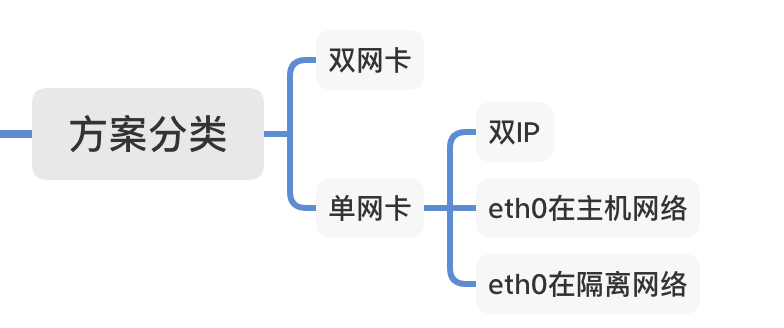
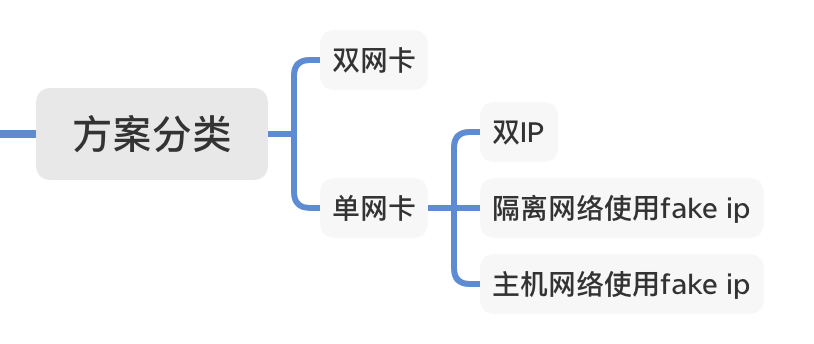
update

Changed region(s): [[0.0918, 0.122, 0.9184, 0.9146], [0.0, 0.3659, 0.0612, 0.4268]]

diff --git a/_posts/2021/2021-03-05-underlay-container-network.md b/_posts/2021/2021-03-05-underlay-container-network.md
@@ -47,7 +47,7 @@ ubuntu@VM-6-46-ubuntu:~$ ip a
        valid_lft forever preferred_lft forever
 ```
 
-我们之后的配置都在cvm-1上操作进行，使用cvm-2测试网络联通性。
+我们之后的配置都在cvm-1上操作进行，使用cvm-2测试网络连通性。
 
 # 方案详解
 
@@ -55,7 +55,291 @@ ubuntu@VM-6-46-ubuntu:~$ ip a
 
 ## 双网卡
 
+方案概览：
 
+![方案概览](https://raw.githubusercontent.com/ligang1109/ligang1109.github.io/master/images/2021-03-05/2eth.png)
+
+设置方法：
+
+```
+#!/bin/bash
+
+myns=blue
+
+ip net add $myns
+ip link set eth1 netns $myns
+ip net exec $myns ip link set eth1 name eth0
+
+ip net exec $myns ip addr add 10.0.6.14/24 dev eth0
+ip net exec $myns ip link set eth0 up
+
+ip net exec $myns ip route add default via 10.0.6.1 dev eth0
+```
+
+设置后机器上的网络情况为：
+
+```
+root@VM-6-43-ubuntu:/home/ubuntu# ip a
+1: lo: <LOOPBACK,UP,LOWER_UP> mtu 65536 qdisc noqueue state UNKNOWN group default qlen 1000
+    link/loopback 00:00:00:00:00:00 brd 00:00:00:00:00:00
+    inet 127.0.0.1/8 scope host lo
+       valid_lft forever preferred_lft forever
+    inet6 ::1/128 scope host
+       valid_lft forever preferred_lft forever
+3: eth0: <BROADCAST,MULTICAST,UP,LOWER_UP> mtu 1500 qdisc fq_codel state UP group default qlen 1000
+    link/ether 52:54:00:9c:e7:91 brd ff:ff:ff:ff:ff:ff
+    inet 10.0.6.43/24 brd 10.0.6.255 scope global eth0
+       valid_lft forever preferred_lft forever
+    inet6 fe80::5054:ff:fe9c:e791/64 scope link
+       valid_lft forever preferred_lft forever
+root@VM-6-43-ubuntu:/home/ubuntu# ip net exec blue ip a
+1: lo: <LOOPBACK> mtu 65536 qdisc noop state DOWN group default qlen 1000
+    link/loopback 00:00:00:00:00:00 brd 00:00:00:00:00:00
+4: eth0: <BROADCAST,MULTICAST,UP,LOWER_UP> mtu 1500 qdisc fq_codel state UP group default qlen 1000
+    link/ether 20:90:6f:a4:6b:7e brd ff:ff:ff:ff:ff:ff
+    inet 10.0.6.14/24 scope global eth0
+       valid_lft forever preferred_lft forever
+    inet6 fe80::2290:6fff:fea4:6b7e/64 scope link
+       valid_lft forever preferred_lft forever
+```
+
+和另一台cvm测试网络连通性：
+
+```
+//隔离环境连通另外一台cvm
+root@VM-6-43-ubuntu:/home/ubuntu# ip net exec blue ping 10.0.6.46 -c 3PING 10.0.6.46 (10.0.6.46) 56(84) bytes of data.
+64 bytes from 10.0.6.46: icmp_seq=1 ttl=64 time=0.145 ms
+64 bytes from 10.0.6.46: icmp_seq=2 ttl=64 time=0.168 ms
+64 bytes from 10.0.6.46: icmp_seq=3 ttl=64 time=0.204 ms
+
+--- 10.0.6.46 ping statistics ---
+3 packets transmitted, 3 received, 0% packet loss, time 2037ms
+rtt min/avg/max/mdev = 0.145/0.172/0.204/0.026 ms
+
+//另一台cvm连通隔离环境
+ubuntu@VM-6-46-ubuntu:~$ ping 10.0.6.14 -c 3
+PING 10.0.6.14 (10.0.6.14) 56(84) bytes of data.
+64 bytes from 10.0.6.14: icmp_seq=1 ttl=64 time=0.172 ms
+64 bytes from 10.0.6.14: icmp_seq=2 ttl=64 time=0.178 ms
+64 bytes from 10.0.6.14: icmp_seq=3 ttl=64 time=0.174 ms
+
+--- 10.0.6.14 ping statistics ---
+3 packets transmitted, 3 received, 0% packet loss, time 2040ms
+rtt min/avg/max/mdev = 0.172/0.174/0.178/0.015 ms
+```
+
+## 单网卡
+
+### 双IP
+
+方案概览：
+
+![方案概览](https://raw.githubusercontent.com/ligang1109/ligang1109.github.io/master/images/2021-03-05/1eth2ip.png)
+
+ 本方案创建一个虚拟网卡，使用ipvlan的L2模式，设置方法如下：
+
+```
+#!/bin/bash
+
+myns=blue
+tmpName=ipv1
+
+ip net add $myns
+ip link add link eth0 name $tmpName type ipvlan mode l2
+ip link set $tmpName netns $myns
+ip net exec $myns ip link set $tmpName name eth0
+ip net exec $myns ip addr add 10.0.6.22/24 dev eth0
+ip net exec $myns ip link set eth0 up
+
+ip net exec $myns ip route add default via 10.0.6.1 dev eth0
+```
+
+设置后隔离环境网络情况为：
+
+```
+root@VM-6-43-ubuntu:/home/ubuntu# ip net exec blue ip a
+1: lo: <LOOPBACK> mtu 65536 qdisc noop state DOWN group default qlen 1000
+    link/loopback 00:00:00:00:00:00 brd 00:00:00:00:00:00
+4: eth0@if3: <BROADCAST,MULTICAST,UP,LOWER_UP> mtu 1500 qdisc noqueue state UNKNOWN group default qlen 1000
+    link/ether 52:54:00:9c:e7:91 brd ff:ff:ff:ff:ff:ff
+    inet 10.0.6.22/24 scope global eth0
+       valid_lft forever preferred_lft forever
+    inet6 fe80::5254:0:19c:e791/64 scope link
+       valid_lft forever preferred_lft forever
+```
+
+和另一台cvm测试网络连通性：
+
+```
+//隔离环境连通另外一台cvm
+root@VM-6-43-ubuntu:/home/ubuntu# ip net exec blue ping 10.0.6.46 -c 3PING 10.0.6.46 (10.0.6.46) 56(84) bytes of data.
+64 bytes from 10.0.6.46: icmp_seq=1 ttl=64 time=0.297 ms
+64 bytes from 10.0.6.46: icmp_seq=2 ttl=64 time=0.204 ms
+64 bytes from 10.0.6.46: icmp_seq=3 ttl=64 time=0.183 ms
+
+--- 10.0.6.46 ping statistics ---
+3 packets transmitted, 3 received, 0% packet loss, time 2033ms
+rtt min/avg/max/mdev = 0.183/0.228/0.297/0.049 ms
+
+//另一台cvm连通隔离环境
+ubuntu@VM-6-46-ubuntu:~$ ping 10.0.6.22 -c 3
+PING 10.0.6.22 (10.0.6.22) 56(84) bytes of data.
+64 bytes from 10.0.6.22: icmp_seq=1 ttl=64 time=0.164 ms
+64 bytes from 10.0.6.22: icmp_seq=2 ttl=64 time=0.169 ms
+64 bytes from 10.0.6.22: icmp_seq=3 ttl=64 time=0.175 ms
+
+--- 10.0.6.22 ping statistics ---
+3 packets transmitted, 3 received, 0% packet loss, time 2039ms
+rtt min/avg/max/mdev = 0.164/0.169/0.175/0.011 ms
+```
+
+### 单IP -- 隔离网络使用fake ip
+
+方案概览：
+
+![方案概览](https://raw.githubusercontent.com/ligang1109/ligang1109.github.io/master/images/2021-03-05/1eth1.png)
+
+ 设置方法如下：
+
+```
+#!/bin/bash
+
+myns=blue
+
+ip net add $myns
+ip link add veth0 type veth peer name veth_host
+
+ip link set veth0 netns $myns
+ip net exec $myns ip link set veth0 name eth0
+ip net exec $myns ip addr add 169.250.1.2/24 dev eth0
+ip net exec $myns ip link set eth0 up
+ip net exec $myns ip route add default via 169.250.1.1 dev eth0
+
+ip link set veth_host up
+ip addr add 169.250.1.1/24 dev veth_host
+
+iptables -t nat -A POSTROUTING -s 169.250.1.2  -o eth0 -j MASQUERADE
+sysctl -w net.ipv4.ip_forward=1
+```
+
+设置后主机环境网络情况为：
+
+```
+root@VM-6-43-ubuntu:/home/ubuntu# ip a
+1: lo: <LOOPBACK,UP,LOWER_UP> mtu 65536 qdisc noqueue state UNKNOWN group default qlen 1000
+    link/loopback 00:00:00:00:00:00 brd 00:00:00:00:00:00
+    inet 127.0.0.1/8 scope host lo
+       valid_lft forever preferred_lft forever
+    inet6 ::1/128 scope host
+       valid_lft forever preferred_lft forever
+3: eth0: <BROADCAST,MULTICAST,UP,LOWER_UP> mtu 1500 qdisc fq_codel state UP group default qlen 1000
+    link/ether 52:54:00:9c:e7:91 brd ff:ff:ff:ff:ff:ff
+    inet 10.0.6.43/24 brd 10.0.6.255 scope global eth0
+       valid_lft forever preferred_lft forever
+    inet6 fe80::5054:ff:fe9c:e791/64 scope link
+       valid_lft forever preferred_lft forever
+4: veth_host@if5: <BROADCAST,MULTICAST,UP,LOWER_UP> mtu 1500 qdisc noqueue state UP group default qlen 1000
+    link/ether 9a:c1:6d:de:de:b7 brd ff:ff:ff:ff:ff:ff link-netnsid 0
+    inet 169.250.1.1/24 scope global veth_host
+       valid_lft forever preferred_lft forever
+    inet6 fe80::98c1:6dff:fede:deb7/64 scope link
+       valid_lft forever preferred_lft forever
+```
+
+设置后隔离环境网络情况为：
+
+```
+root@VM-6-43-ubuntu:/home/ubuntu# ip net exec blue ip a
+1: lo: <LOOPBACK> mtu 65536 qdisc noop state DOWN group default qlen 1000
+    link/loopback 00:00:00:00:00:00 brd 00:00:00:00:00:00
+5: eth0@if4: <BROADCAST,MULTICAST,UP,LOWER_UP> mtu 1500 qdisc noqueue state UP group default qlen 1000
+    link/ether 16:8d:05:d9:34:44 brd ff:ff:ff:ff:ff:ff link-netnsid 0
+    inet 169.250.1.2/24 scope global eth0
+       valid_lft forever preferred_lft forever
+    inet6 fe80::148d:5ff:fed9:3444/64 scope link
+       valid_lft forever preferred_lft forever
+```
+
+和另一台cvm测试网络连通性：
+
+```
+//隔离环境连通另外一台cvm
+root@VM-6-43-ubuntu:/home/ubuntu# ip net exec blue ping 10.0.6.46 -c 3PING 10.0.6.46 (10.0.6.46) 56(84) bytes of data.
+64 bytes from 10.0.6.46: icmp_seq=1 ttl=63 time=0.323 ms
+64 bytes from 10.0.6.46: icmp_seq=2 ttl=63 time=0.201 ms
+64 bytes from 10.0.6.46: icmp_seq=3 ttl=63 time=0.238 ms
+
+--- 10.0.6.46 ping statistics ---
+3 packets transmitted, 3 received, 0% packet loss, time 2036ms
+rtt min/avg/max/mdev = 0.201/0.254/0.323/0.051 ms
+```
+
+本方案从外部cvm访问隔离网络中服务需要配置DNAT。
+
+### 单IP -- 主机网络使用fake ip
+
+方案概览：
+
+![方案概览](https://raw.githubusercontent.com/ligang1109/ligang1109.github.io/master/images/2021-03-05/1eth2.png)
+
+设置方法如下：
+
+```
+#!/bin/bash
+
+myns=blue
+
+ip net add $myns
+ip link add veth0 type veth peer name veth_host
+
+ip link set veth0 netns $myns
+ip link set eth0 netns $myns
+
+ip net exec $myns ip addr add 169.250.1.2/24 dev veth0
+ip net exec $myns ip link set veth0 up
+
+ip net exec $myns ip addr add 10.0.6.43/24 dev eth0
+ip net exec $myns ip link set eth0 up
+
+ip net exec $myns ip route add default via 10.0.6.1 dev eth0
+
+ip link set veth_host up
+ip addr add 169.250.1.1/24 dev veth_host
+
+ip route add default via 169.250.1.2 dev veth_host
+
+ip net exec $myns iptables -t nat -A POSTROUTING -s 169.250.1.1 -o eth0 -j MASQUERADE
+ip net exec $myns sysctl -w net.ipv4.ip_forward=1
+```
+
+这里设置后之前通过ssh登录到主机环境会断开无法登录，需要使用cvm提供的vnc方式登录。
+
+设置后主机环境网络情况为：
+
+![方案概览]()
+
+设置后隔离环境网络情况为：
+
+![方案概览]()
+
+和另一台cvm测试网络连通性：
+
+隔离环境连通另外一台cvm：
+
+![方案概览]()
+
+```
+//另一台cvm连通隔离环境
+ubuntu@VM-6-46-ubuntu:~$ ping 10.0.6.43 -c 3
+PING 10.0.6.43 (10.0.6.43) 56(84) bytes of data.
+64 bytes from 10.0.6.43: icmp_seq=1 ttl=64 time=0.188 ms
+64 bytes from 10.0.6.43: icmp_seq=2 ttl=64 time=0.190 ms
+64 bytes from 10.0.6.43: icmp_seq=3 ttl=64 time=0.183 ms
+
+--- 10.0.6.43 ping statistics ---
+3 packets transmitted, 3 received, 0% packet loss, time 2049ms
+rtt min/avg/max/mdev = 0.183/0.187/0.190/0.003 ms
+```
 
 
 
